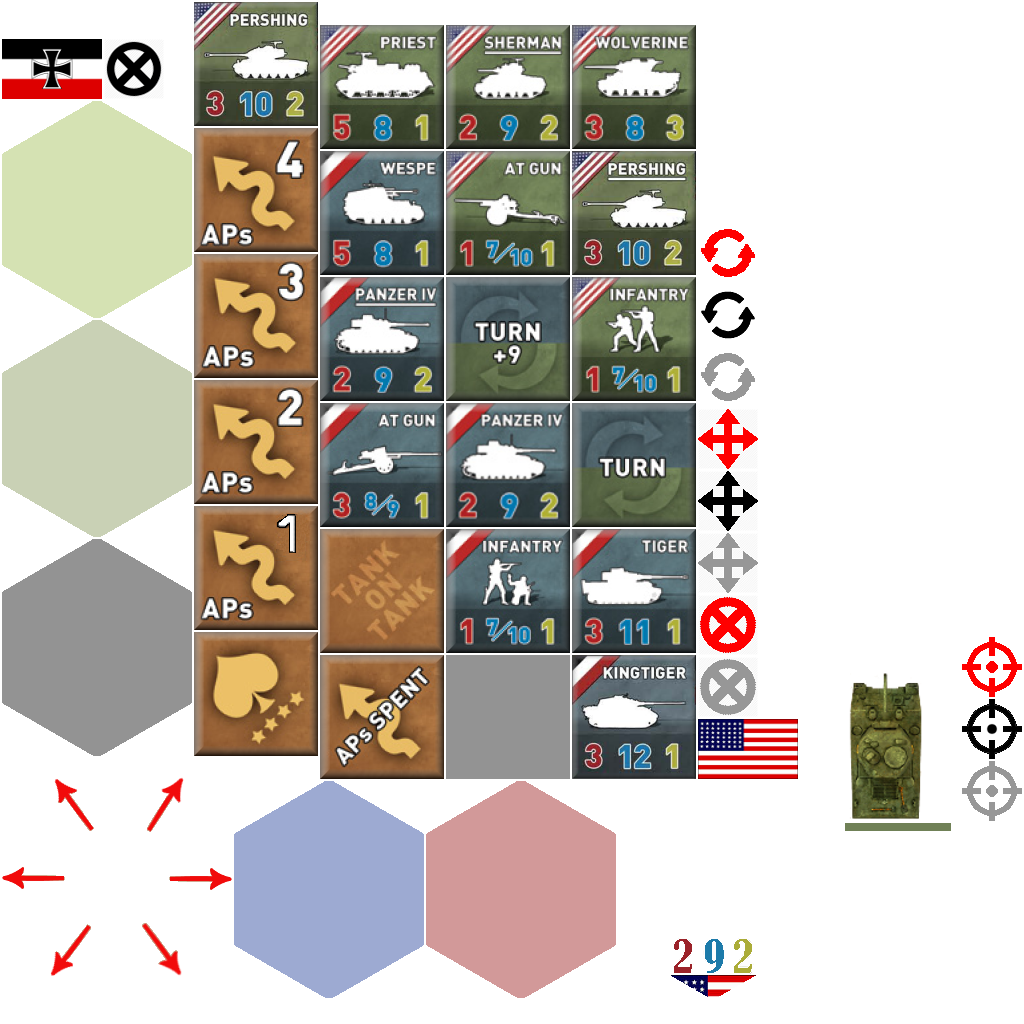
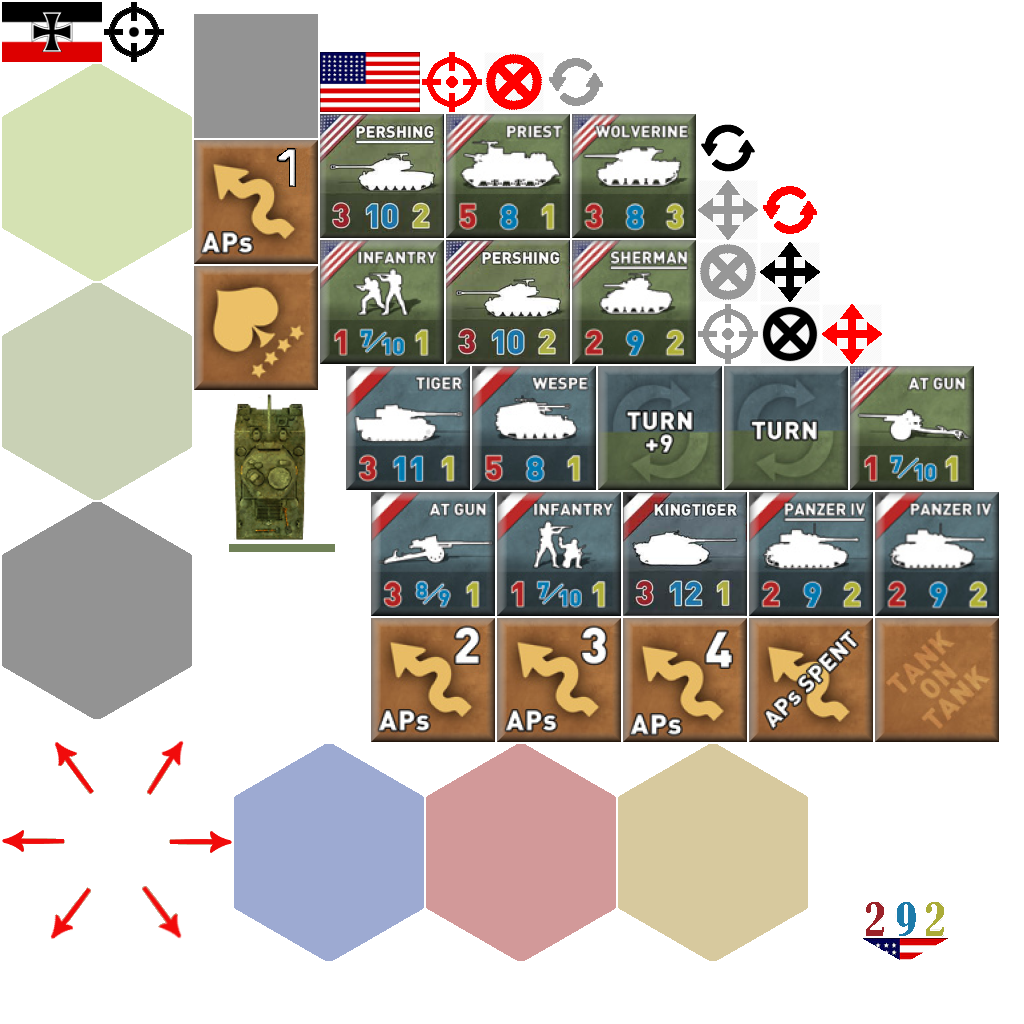
add assist pawn overhead

diff --git a/core/src/ch/asynk/tankontank/game/Hex.java b/core/src/ch/asynk/tankontank/game/Hex.java
@@ -26,6 +26,7 @@ public class Hex extends Tile
     public static final int RED = 3;
     public static final int MOVE = 4;
     public static final int ROSE = 5;
+    public static final int ASSIST = 6;
 
     public Terrain terrain;
     public int roads;
